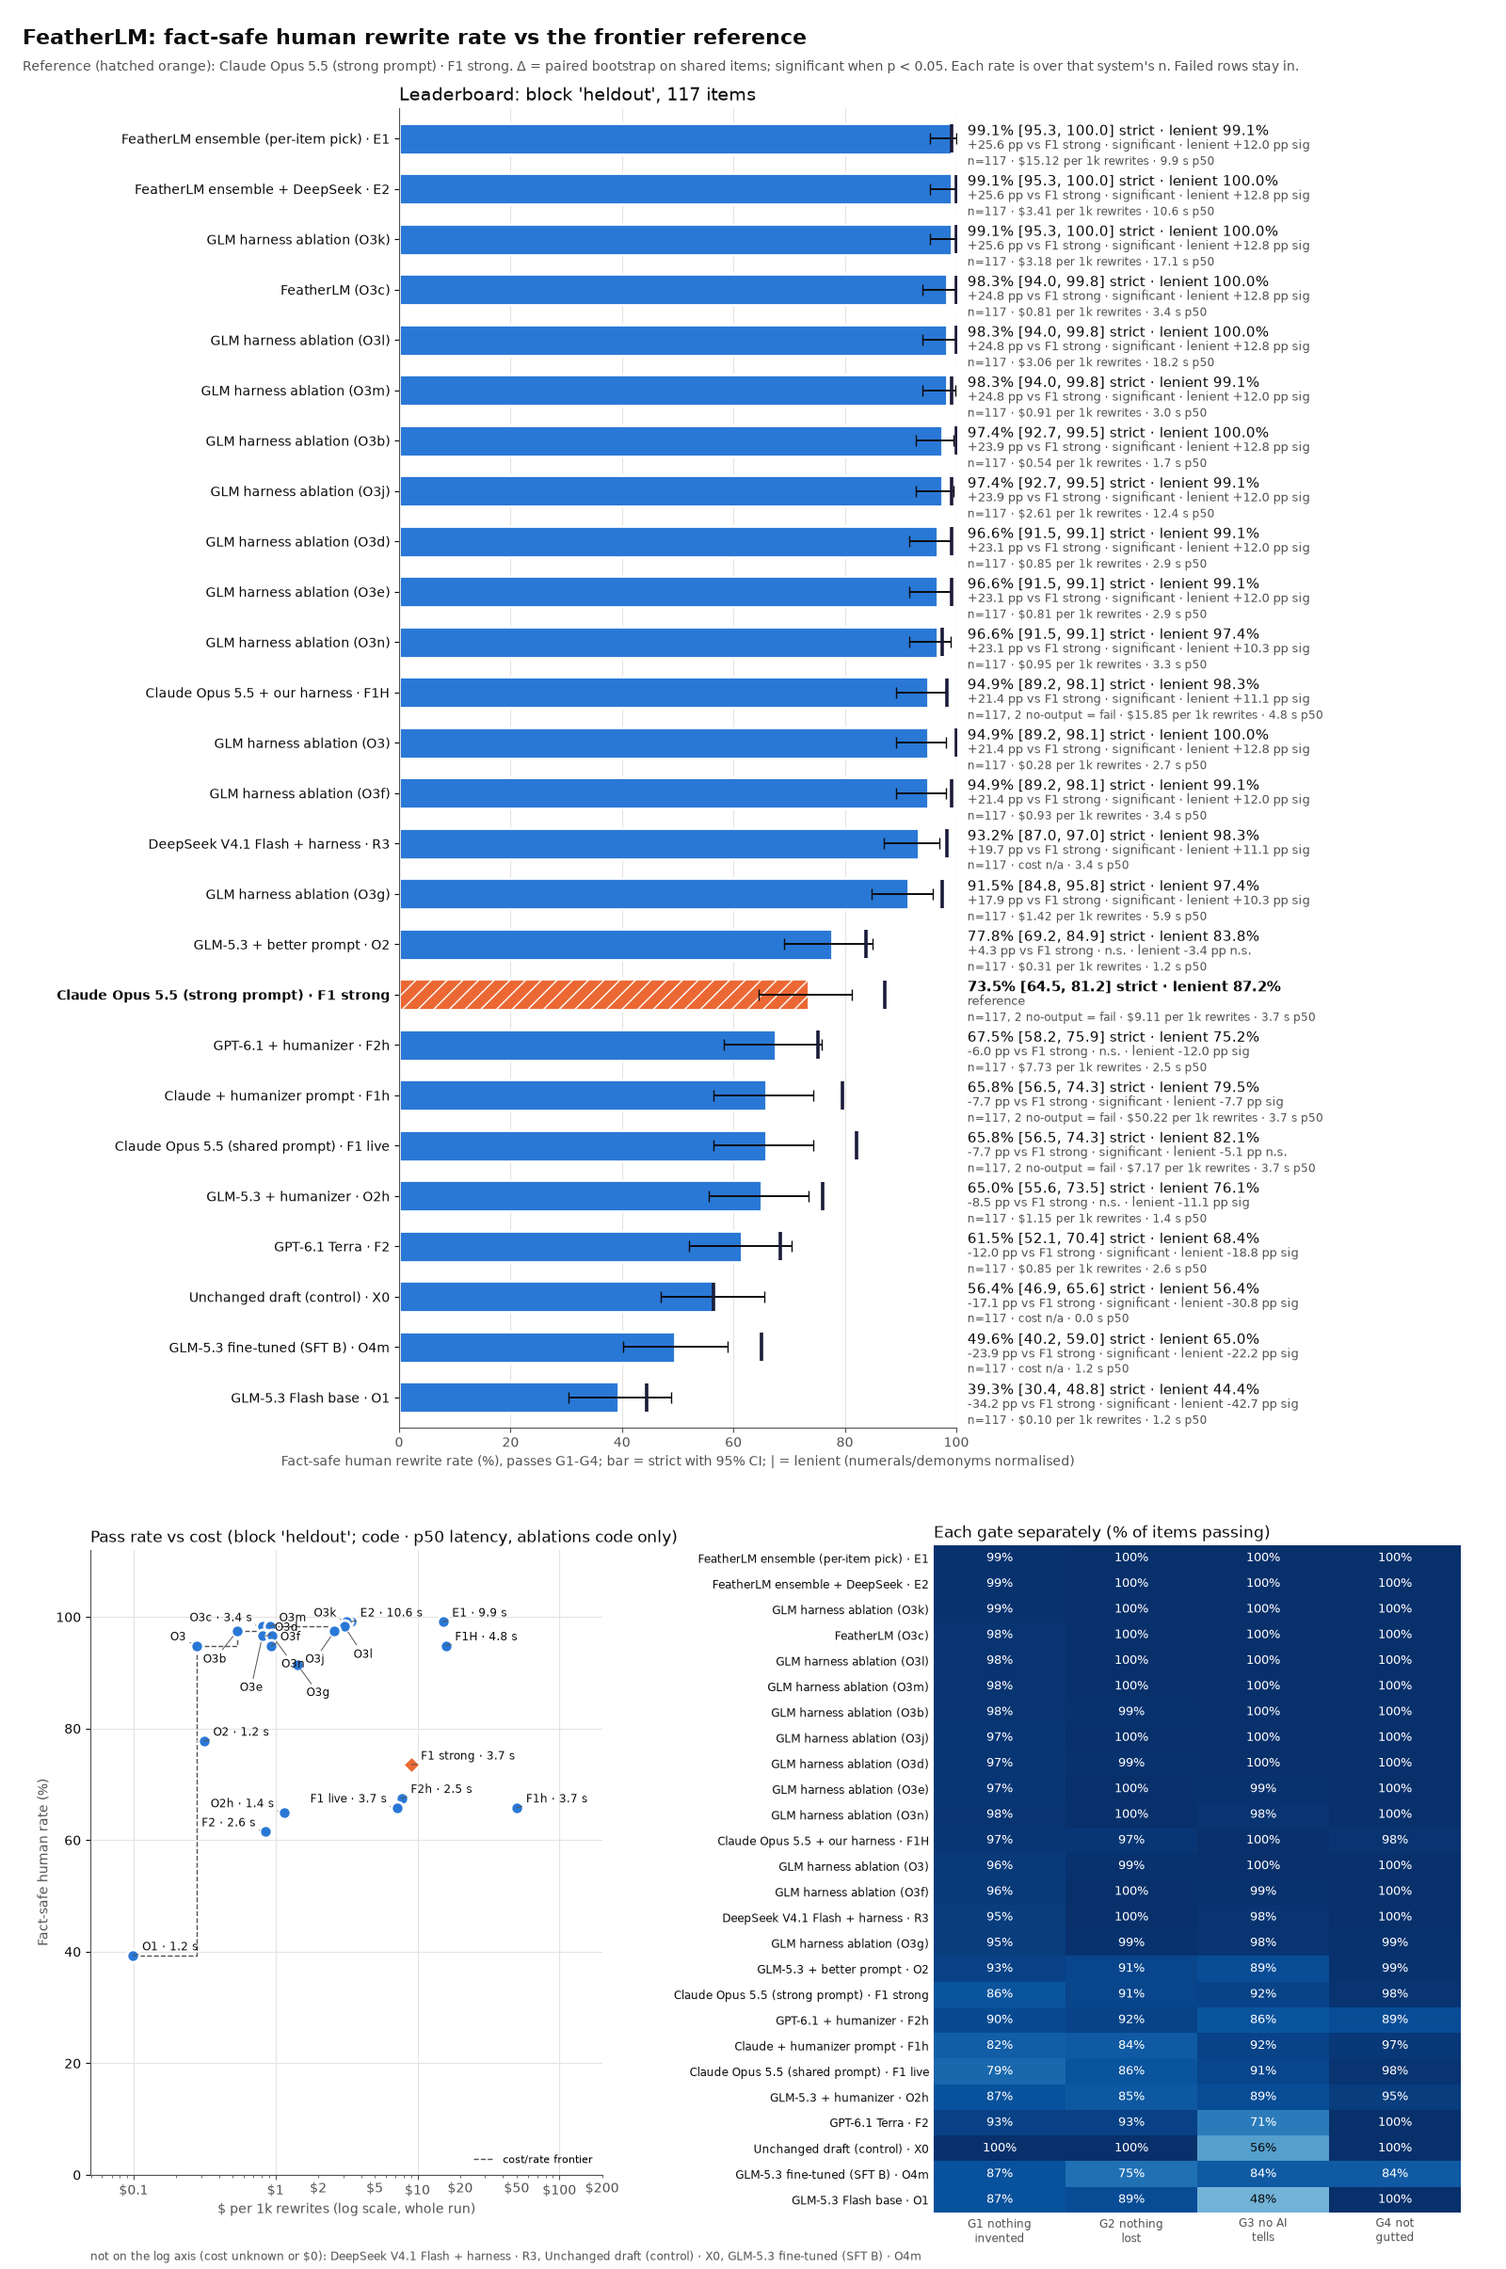
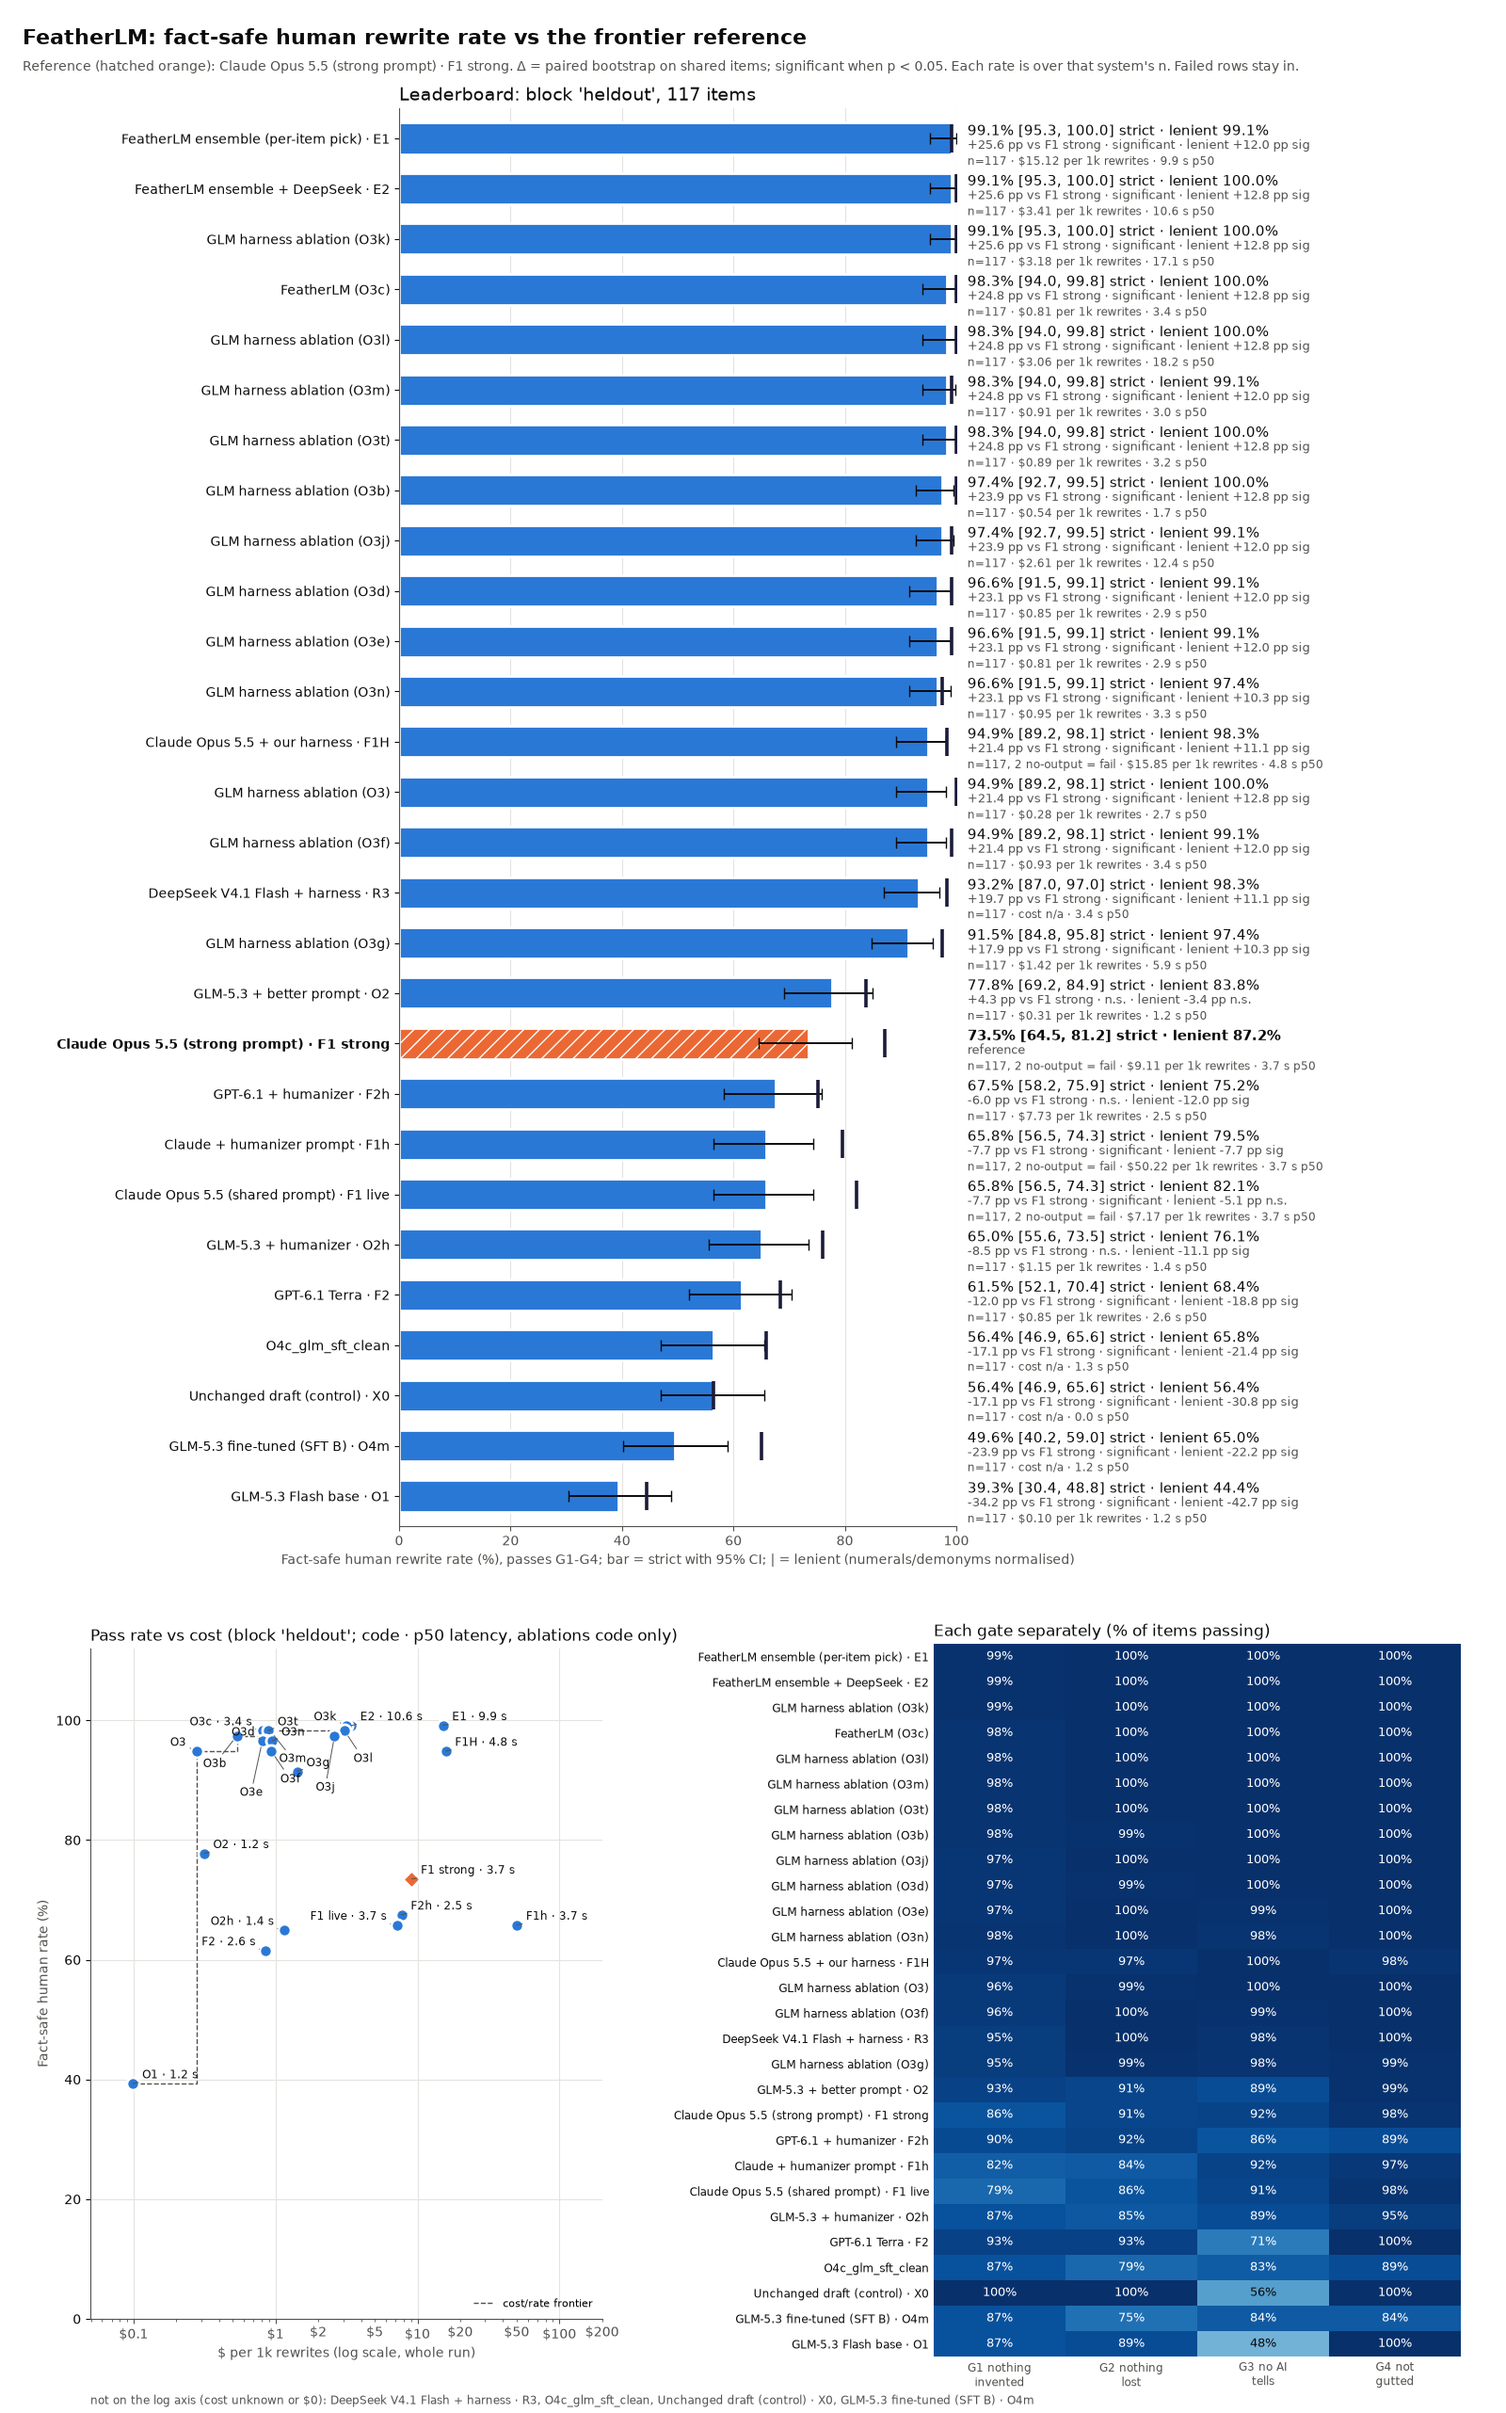
report: leaderboards re-rendered from results 73f4c5b (adds O3t 97.2%, O4c SFT C 37.7%, R3t on real); display names

diff --git a/hackathon/eval/plot.py b/hackathon/eval/plot.py
@@ -199,6 +199,8 @@ DISPLAY = {
     "O2_glm_prompt": "GLM-5.3 + better prompt",
     "O2h_glm_humanizer": "GLM-5.3 + humanizer",
     "O4m_glm_sft_modern": "GLM-5.3 fine-tuned (SFT B)",
+    "O4c_glm_sft_clean": "GLM-5.3 fine-tuned (SFT C, gate-clean)",
+    "R3t_deepseek_ali_taste": "DeepSeek + harness, Ali's taste",
     "E1_ensemble": "FeatherLM ensemble (per-item pick)",
     "E2_ensemble_glm_deepseek": "FeatherLM ensemble + DeepSeek",
     "R3_deepseek_harness": "DeepSeek V4.1 Flash + harness",
